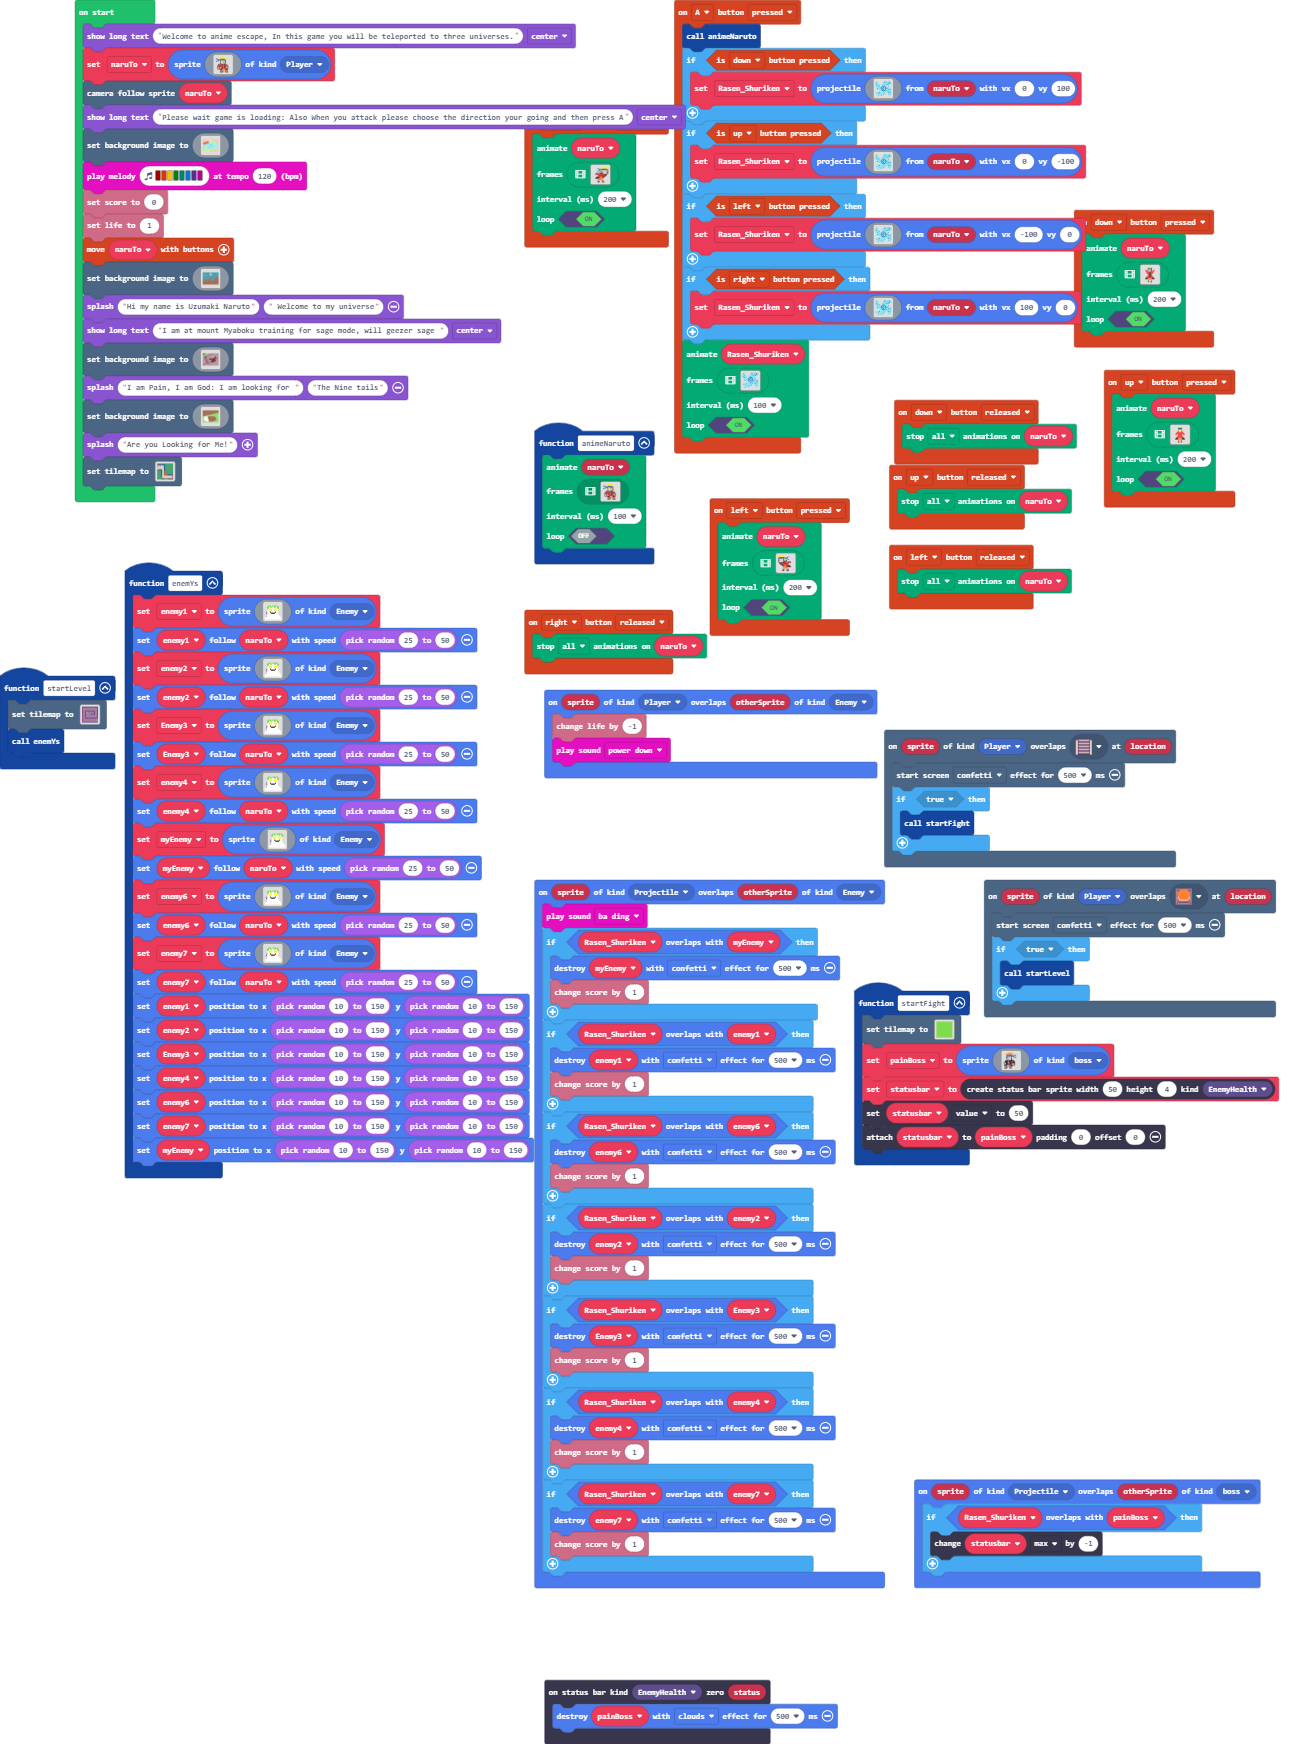
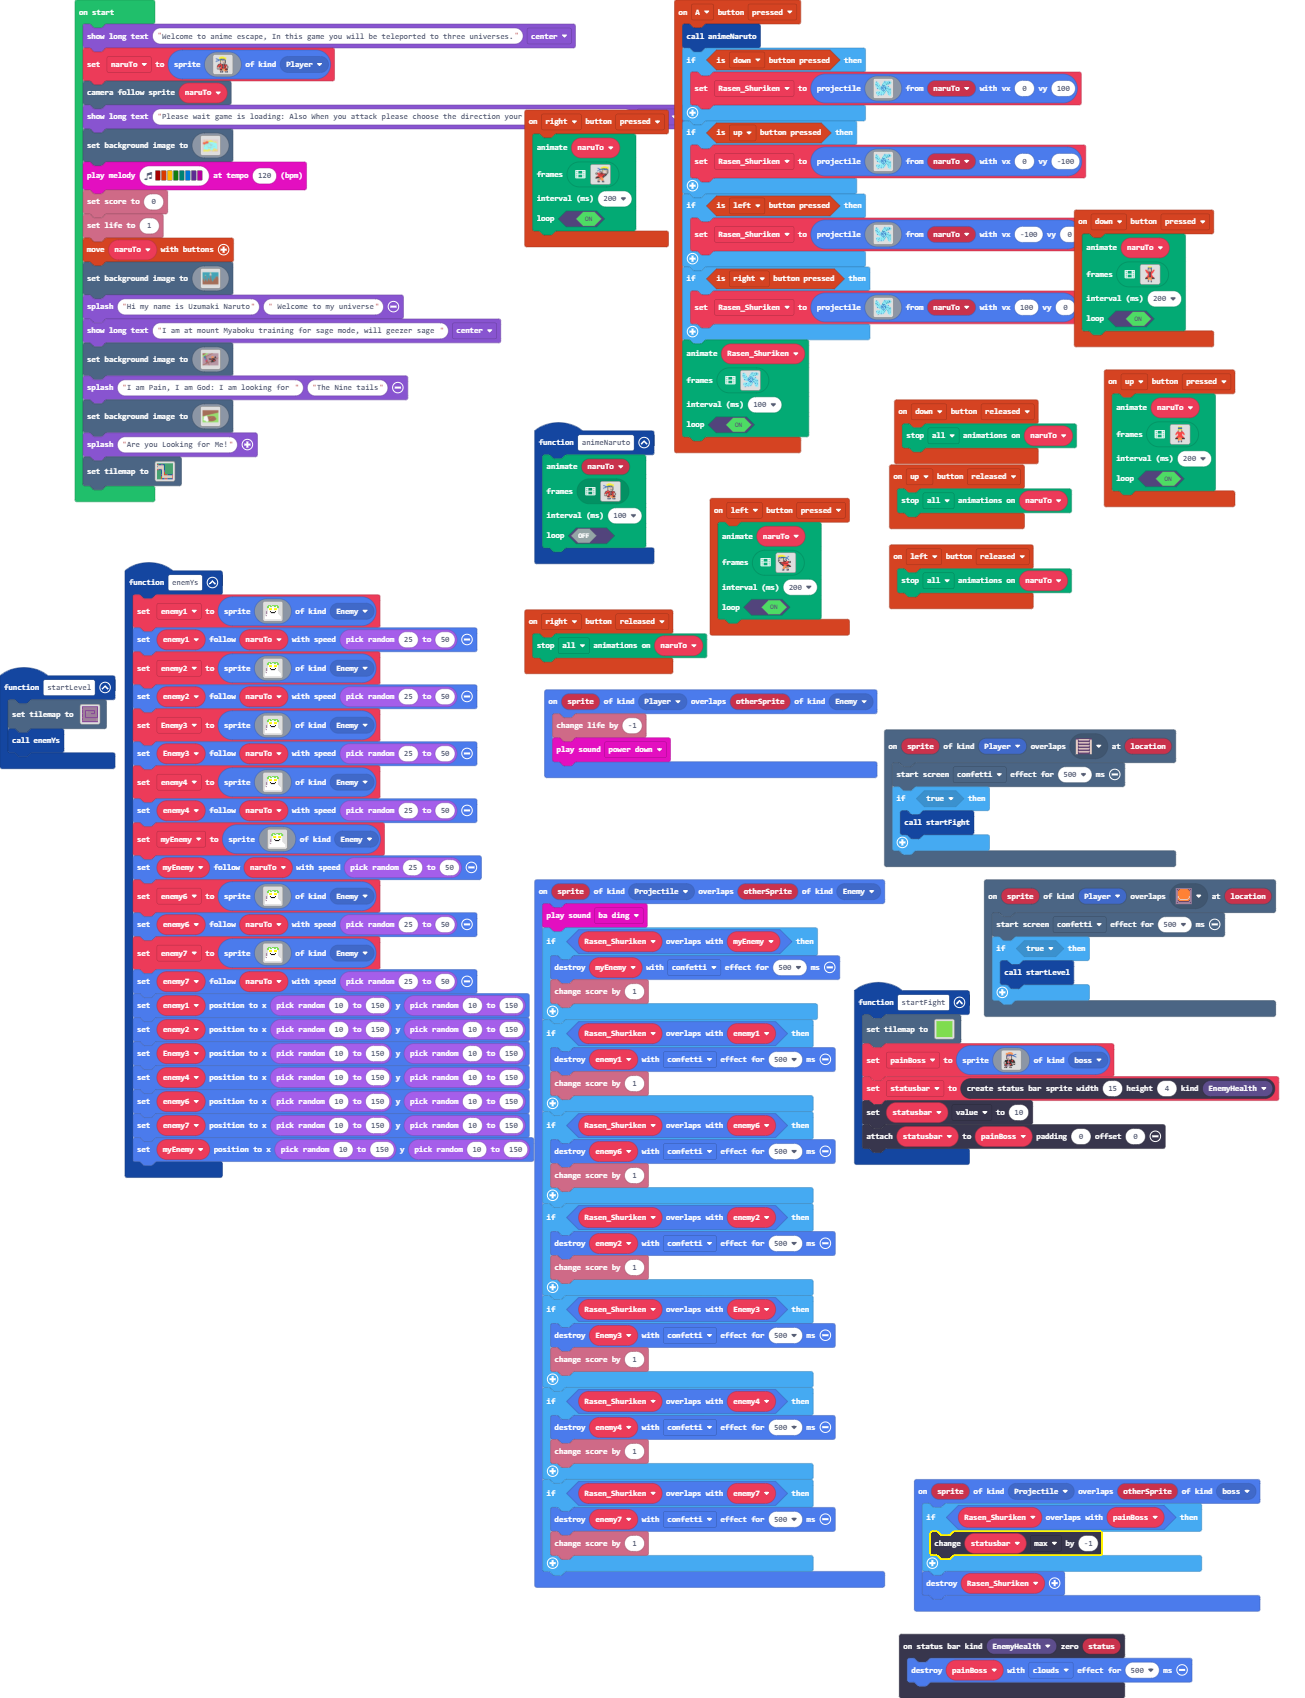
Update main.blocks, main.ts

diff --git a/main.ts b/main.ts
@@ -195,8 +195,8 @@ statusbars.onZero(StatusBarKind.EnemyHealth, function (status) {
 function startFight () {
     tiles.setTilemap(tilemap`level16`)
     painBoss = sprites.create(assets.image`Pain`, SpriteKind.boss)
-    statusbar = statusbars.create(50, 4, StatusBarKind.EnemyHealth)
-    statusbar.value = 50
+    statusbar = statusbars.create(15, 4, StatusBarKind.EnemyHealth)
+    statusbar.value = 10
     statusbar.attachToSprite(painBoss, 0, 0)
 }
 controller.right.onEvent(ControllerButtonEvent.Pressed, function () {
@@ -230,6 +230,7 @@ sprites.onOverlap(SpriteKind.Projectile, SpriteKind.boss, function (sprite, othe
     if (Rasen_Shuriken.overlapsWith(painBoss)) {
         statusbar.max += -1
     }
+    Rasen_Shuriken.destroy()
 })
 scene.onOverlapTile(SpriteKind.Player, sprites.dungeon.buttonOrange, function (sprite, location) {
     effects.confetti.startScreenEffect(500)
